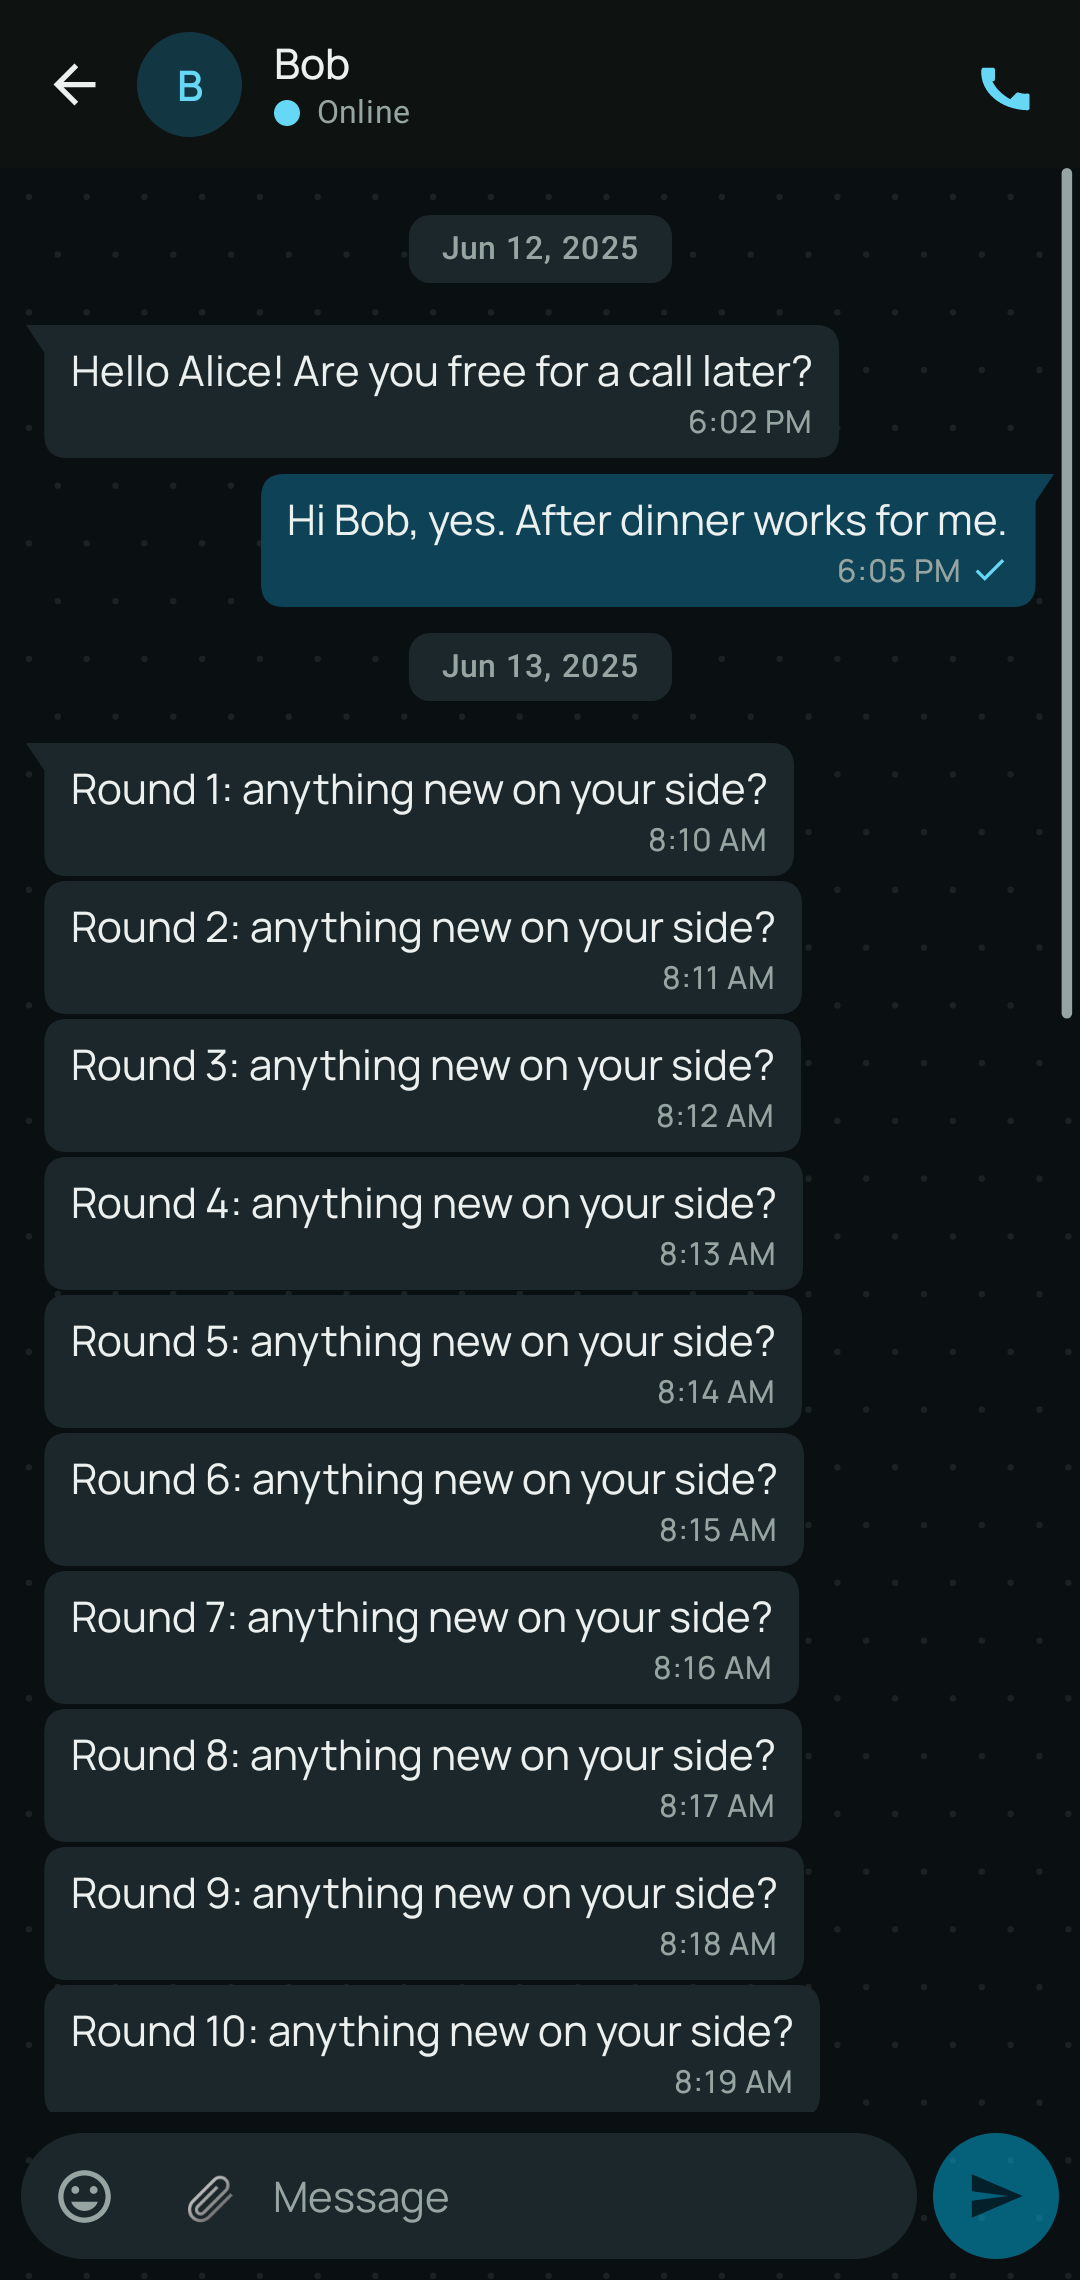
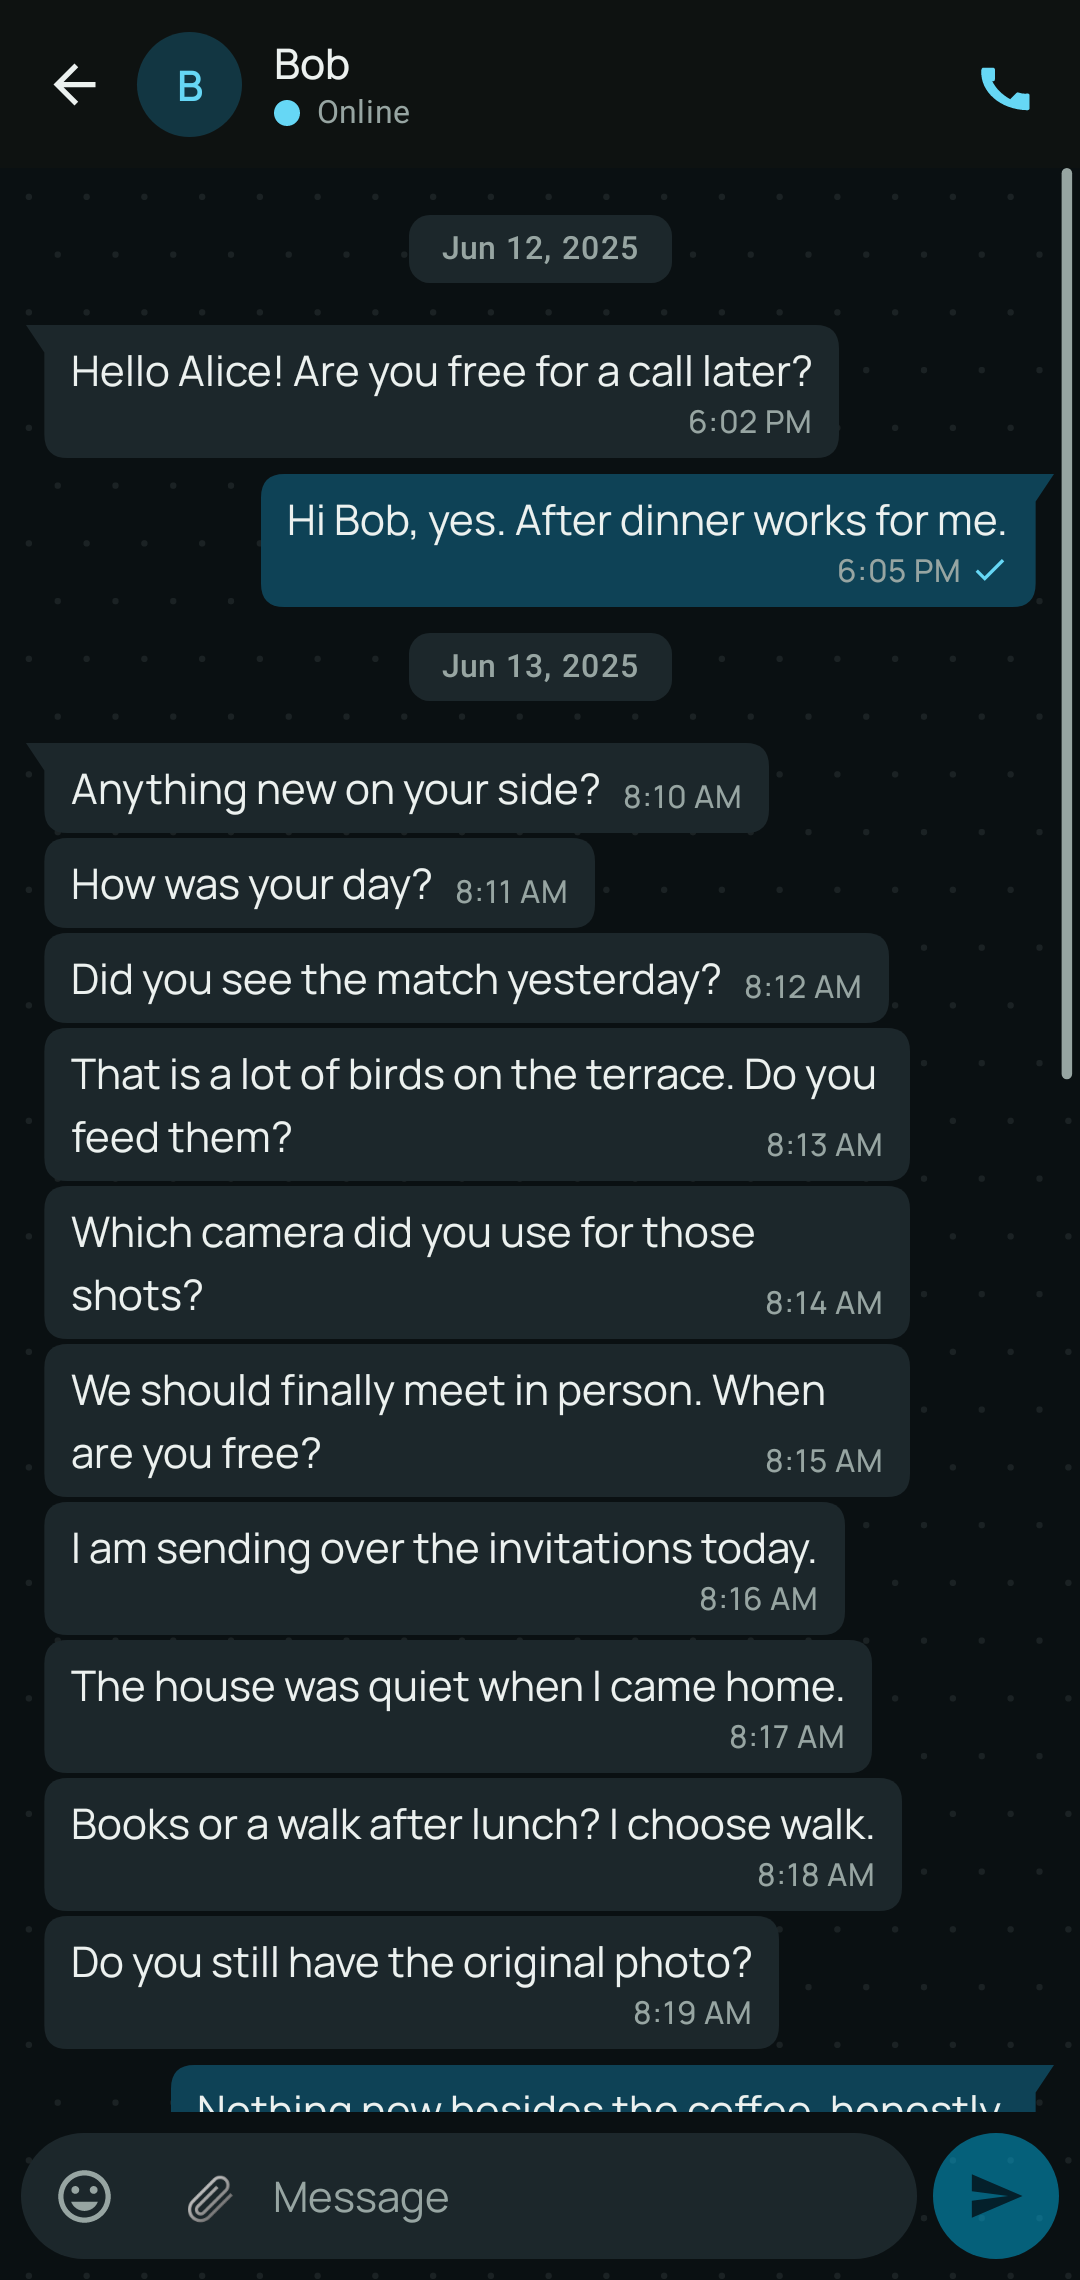
fix(ui): align image bubble meta row and refresh preview chat
Image bubbles centred their time/tick row under the image; text rows place
their meta at the bubble end. Image rows now match (Arrangement.End with
the same edge padding), so times and ticks hug the same edge everywhere.

The screenshot preview conversation in FakeCallEngine replaces the twelve
"Round N" filler pairs with varied, natural dialogue so row heights differ
and the refreshed chat screenshots look like a real conversation.

Screenshots refreshed for the changed chat renders (light and dark, plain/
scrollbar/image).

Changed region(s): [[0.0306, 0.3114, 0.9778, 0.9342], [0.9778, 0.436, 1.0, 0.4671]]

diff --git a/app/src/test/kotlin/com/patbaumgartner/android/stringtelephone/ui/FakeCallEngine.kt b/app/src/test/kotlin/com/patbaumgartner/android/stringtelephone/ui/FakeCallEngine.kt
@@ -83,18 +83,40 @@ class FakeCredentialStore : CredentialStore {
 private val PREVIEW_CHAT = buildList {
     add(Triple(false, "Hello Alice! Are you free for a call later?", "2025-06-12T18:02:00Z"))
     add(Triple(true, "Hi Bob, yes. After dinner works for me.", "2025-06-12T18:05:00Z"))
-    repeat(12) { round ->
-        add(
-            Triple(
-                false,
-                "Round ${round + 1}: anything new on your side?",
-                "2025-06-13T08:${(10 + round).toString().padStart(2, '0')}:00Z",
-            ),
-        )
+    val bobAsks = listOf(
+        "Anything new on your side?",
+        "How was your day?",
+        "Did you see the match yesterday?",
+        "That is a lot of birds on the terrace. Do you feed them?",
+        "Which camera did you use for those shots?",
+        "We should finally meet in person. When are you free?",
+        "I am sending over the invitations today.",
+        "The house was quiet when I came home.",
+        "Books or a walk after lunch? I choose walk.",
+        "Do you still have the original photo?",
+        "The trail agent said the condition improved.",
+        "Last one: are you in for a run on Saturday?",
+    )
+    val aliceAnswers = listOf(
+        "Nothing new besides the coffee, honestly.",
+        "Good, busy. Sending you the photos tonight.",
+        "Only the highlights, but yes!",
+        "No, they just come for the seeds. I refill weekly.",
+        "All of them with a compact mirrorless, manual glass.",
+        "Saturday morning works. Coffee after?",
+        "Perfect. The address has not changed.",
+        "The same here. I watered the balcony plants.",
+        "Walk it is. Bring the good shoes.",
+        "I do — the folder is on my desk.",
+        "Then Sunday it is.",
+        "Count me in. I will bring the water bottles.",
+    )
+    bobAsks.forEachIndexed { round, ask ->
+        add(Triple(false, ask, "2025-06-13T08:${(10 + round).toString().padStart(2, '0')}:00Z"))
         add(
             Triple(
                 true,
-                "Round ${round + 1}: nothing new here. Still on for the weekend?" +
+                aliceAnswers[round] +
                     if (round == 6) {
                         " This one runs long enough to wrap over several lines, keeping row heights varied."
                     } else {

diff --git a/app/src/main/kotlin/com/patbaumgartner/android/stringtelephone/ui/ChatScreen.kt b/app/src/main/kotlin/com/patbaumgartner/android/stringtelephone/ui/ChatScreen.kt
@@ -424,7 +424,14 @@ private fun ImageBubbleContent(message: ChatMessage, colors: com.patbaumgartner.
                 }
             }
         }
-        Row(verticalAlignment = Alignment.CenterVertically, modifier = Modifier.padding(top = 4.dp)) {
+        // Same edge as text bubbles: the time row hugs the end that points
+        // away from the sender. Text rows place their meta at the bubble end
+        // (MessageWithMeta), so image rows do the same regardless of the image.
+        Row(
+            verticalAlignment = Alignment.CenterVertically,
+            horizontalArrangement = Arrangement.End,
+            modifier = Modifier.fillMaxWidth().padding(start = 6.dp, end = 2.dp, top = 4.dp),
+        ) {
             Text(time, style = MaterialTheme.typography.labelSmall, color = colors.meta)
             if (message.fromMe) {
                 Spacer(Modifier.width(3.dp))
